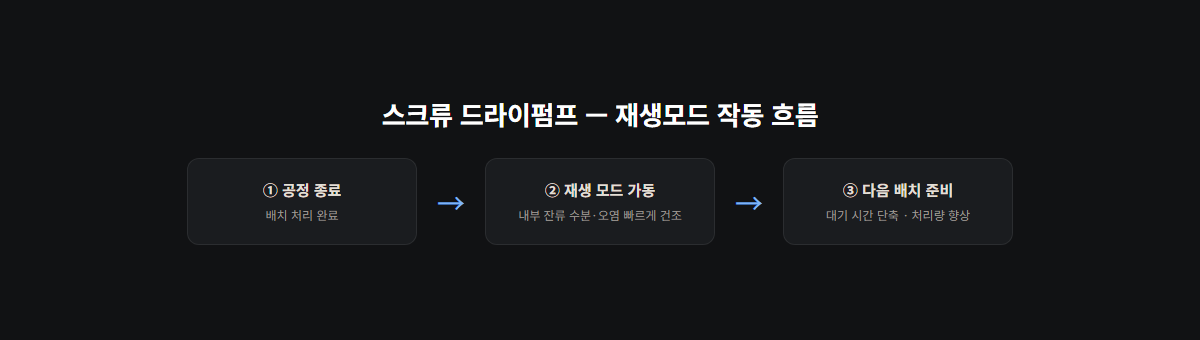
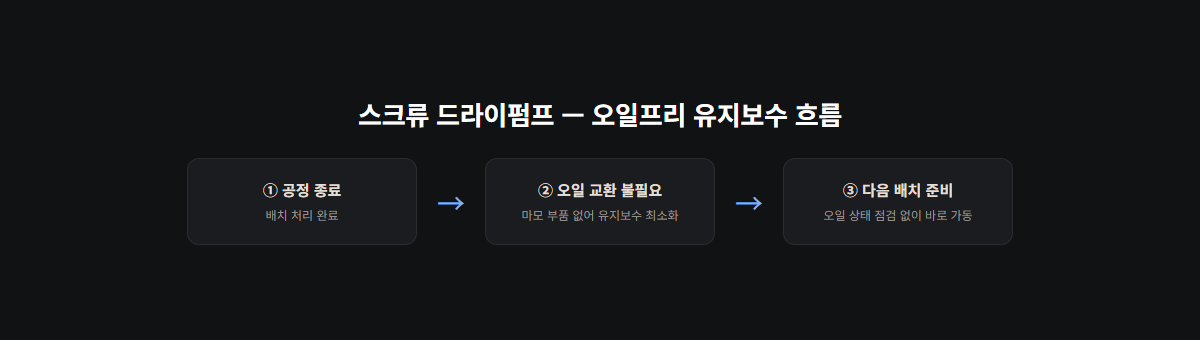
fix: 의료용 진공펌프 블로그 GC 용어 통일 및 스크류펌프 재생모드 오류 삭제
"GC·GC-MS" 중복 표현을 "GC(질량분석장비)"로 통일(사용자 지정 용어).
출처 없이 작성된 "스크류 드라이펌프 재생(regeneration) 모드" 주장을
삭제 — 사용자가 Edwards 스크류 드라이펌프에 그런 기능이 없다고 지적.
진공기술에서 재생은 크라이오펌프 흡착가스 방출 절차를 가리키는
용어로, 스크류 드라이펌프와 혼동된 것으로 추정. 관련 이미지(사진4)도
"오일프리 유지보수 흐름"으로 재생성. id=70으로 재업로드.

diff --git a/블로그/output/기술블로그/2026-07/0710-의료용진공펌프/research.md b/블로그/output/기술블로그/2026-07/0710-의료용진공펌프/research.md
@@ -2,13 +2,13 @@
 
 ## 핵심 사실
 
-1. **분석 장비(GC·GC-MS·전자현미경)는 소형 오일로터리가 표준**: E2M0.7(배기속도 0.75 m³/h, 도달진공도 3.0E-03 mbar)·E2M1.5(1.6 m³/h, 1.0E-03 mbar)는 질량분석기·전자현미경·연구실·터보펌프 백킹용으로 설계된 초소형 오일로터리베인 펌프이며, NW10 입구로 장비 내부에 붙박이로 장착되는 경우가 많다. (✅ product_master_table.csv)
+1. **분석 장비(GC(질량분석장비)·전자현미경)는 소형 오일로터리가 표준**: E2M0.7(배기속도 0.75 m³/h, 도달진공도 3.0E-03 mbar)·E2M1.5(1.6 m³/h, 1.0E-03 mbar)는 질량분석기·전자현미경·연구실·터보펌프 백킹용으로 설계된 초소형 오일로터리베인 펌프이며, NW10 입구로 장비 내부에 붙박이로 장착되는 경우가 많다. (✅ product_master_table.csv)
 2. **오일 미스트 필터로 역류 관리 가능**: EMF3 미스트 필터는 RV3~RV5, E2M0.7~1.5 배기 라인에 장착해 오일 포집이 가능하다(NW10, 정격유량 3 m³/h). 완전 전환 없이도 오일 미스트 배출을 줄이는 보완책이다. (✅ product_master_table.csv)
 3. **오일프리 대안도 존재**: nXDS6i(드라이 스크롤, 6.2 m³/h, 2.0E-02 mbar)는 E2M0.7·E2M1.5와 동일하게 질량분석기·전자현미경·연구실·터보펌프 백킹·동결건조에 쓰이는 오일프리 모델이다. 다만 입구가 NW25로 E2M 시리즈(NW10)보다 커서, 장비 제조사가 애초에 NW10 규격으로 설계한 시스템은 펌프만 단순 교체가 어렵고 배관·설치 공간 재설계가 필요할 수 있다. (✅ product_master_table.csv)
-4. **오일 역류가 실제로 문제 되는 곳은 공정 장비**: 동결건조기·멸균 챔버·충전 라인처럼 제품(백신·주사제 등)이 배기 라인과 같은 공간을 공유하거나 직접 접촉 가능성이 있는 설비에서는 오일 역류가 제품 오염으로 이어질 수 있다. FDA cGMP 등 의약품 제조 규제 환경에서는 공정 가스에 윤활유가 닿지 않아야 한다는 요건이 있다. GC·GC-MS 같은 분석 장비는 시료가 장비 내부에서 밀폐 처리되고 진공 라인이 제품(시판 의약품)과 직접 접촉하지 않는 구조라 같은 논리를 그대로 적용하기 어렵다. (✅ Vacuubrand, Brandtech 진공펌프 기술자료 — 공정 장비 한정)
+4. **오일 역류가 실제로 문제 되는 곳은 공정 장비**: 동결건조기·멸균 챔버·충전 라인처럼 제품(백신·주사제 등)이 배기 라인과 같은 공간을 공유하거나 직접 접촉 가능성이 있는 설비에서는 오일 역류가 제품 오염으로 이어질 수 있다. FDA cGMP 등 의약품 제조 규제 환경에서는 공정 가스에 윤활유가 닿지 않아야 한다는 요건이 있다. GC(질량분석장비) 같은 분석 장비는 시료가 장비 내부에서 밀폐 처리되고 진공 라인이 제품(시판 의약품)과 직접 접촉하지 않는 구조라 같은 논리를 그대로 적용하기 어렵다. (✅ Vacuubrand, Brandtech 진공펌프 기술자료 — 공정 장비 한정)
 5. **동결건조(lyophilization) 진공 요구**: 정밀 진공범위 1~10⁻³ mbar가 필요하며, 1차 건조 단계에서 시료가 녹지 않도록 목표 압력까지 빠르게 낮추는 높은 배기속도가 필요하다. 물의 삼중점은 0°C·약 6 mbar이며, 이보다 낮은 조건에서 승화(sublimation)가 가능해진다.
 6. **동결건조 구성**: 건조 챔버, 응축기(보통 -55°C~-85°C), 진공펌프로 구성된다.
-7. **스크류 펌프의 장점**: 100% 오일프리로 마모 부품이 없고, 오일 교환·마모부품 교체가 불필요하다. 재생(regeneration) 모드가 내장되어 공정 종료 후 빠르게 건조시켜 처리량을 높일 수 있다.
+7. **스크류 펌프의 장점**: 100% 오일프리로 마모 부품이 없고, 오일 교환·마모부품 교체가 불필요하다. 오일 상태 점검·교환 없이 배치 종료 직후 바로 다음 배치를 가동할 수 있어 유지보수로 인한 대기시간이 줄어든다. (⚠ 2026-07-17: 원래 "재생(regeneration) 모드 내장" 표현이 있었으나 출처 없이 작성된 오류로 확인돼 삭제 — 사용자가 Edwards 스크류 드라이펌프에 그런 기능이 없다고 지적. product_master_table.csv에도 재생/regen 관련 스펙 없음. 진공기술에서 "재생"은 크라이오펌프의 흡착가스 방출 절차를 가리키는 용어이며 스크류 드라이펌프와는 무관한 것으로 추정)
 
 ## 현장 사용자 의견 반영 (2026-07-17)
 
@@ -17,7 +17,7 @@
 ## 기존 글과의 차별점
 
 - `동결건조-식품등급오일-20260704` 글: 식품·제약 동결건조 공정에서 "오일 종류(미네랄오일 vs 식품등급오일)" 선택 기준을 다룸.
-- 이번 글: 의료·생명공학 산업에서 "분석 장비(GC·GC-MS 등)는 오일로터리 유지가 합리적, 공정 장비(동결건조·충전·멸균)는 무오일 전환이 유효"라는 장비 유형별 판단 기준을 다룸.
+- 이번 글: 의료·생명공학 산업에서 "분석 장비(GC(질량분석장비) 등)는 오일로터리 유지가 합리적, 공정 장비(동결건조·충전·멸균)는 무오일 전환이 유효"라는 장비 유형별 판단 기준을 다룸.
 
 ## 산업 연결
 

diff --git a/블로그/output/기술블로그/2026-07/0710-의료용진공펌프/naver.md b/블로그/output/기술블로그/2026-07/0710-의료용진공펌프/naver.md
@@ -2,15 +2,15 @@
 
 # 의료·바이오 GC 장비, 오일로터리펌프 계속 써도 괜찮을까요
 
-GC(가스크로마토그래피)·GC-MS 문의를 받다 보면 "오일식 펌프인데 무오일로 바꿔야 하나요"라는 질문을 자주 받습니다. 결론부터 말씀드리면, GC 계열 분석 장비는 대부분 그대로 유지하는 게 맞습니다. 반면 동결건조기·멸균 챔버 같은 공정 장비는 이야기가 다릅니다. 오늘은 장비 종류에 따라 왜 판단 기준이 달라지는지 정리합니다.
+GC(가스크로마토그래피)·GC(질량분석장비) 문의를 받다 보면 "오일식 펌프인데 무오일로 바꿔야 하나요"라는 질문을 자주 받습니다. 결론부터 말씀드리면, GC 계열 분석 장비는 대부분 그대로 유지하는 게 맞습니다. 반면 동결건조기·멸균 챔버 같은 공정 장비는 이야기가 다릅니다. 오늘은 장비 종류에 따라 왜 판단 기준이 달라지는지 정리합니다.
 
 [IMAGE:의료·생명공학 진공 시스템 무오일 드라이펌프 선택 기준]
 
 ## GC 장비는 왜 오일로터리가 기본일까요?
 
-GC·GC-MS·전자현미경 같은 분석 장비에는 E2M0.7(배기속도 0.75 m³/h, 도달진공도 3.0E-03 mbar)·E2M1.5(1.6 m³/h, 1.0E-03 mbar) 같은 초소형 오일로터리베인 펌프가 표준으로 달려 있습니다. NW10 규격의 작은 입구로 장비 내부 공간에 딱 맞춰 설계돼 있고, 터보펌프 백킹용으로도 널리 쓰입니다. 제조사가 처음부터 이 펌프 크기·성능에 맞춰 배관과 설치 공간을 설계했기 때문에, 다른 펌프로 단순 교체하기가 현실적으로 쉽지 않습니다.
+GC(질량분석장비)·전자현미경 같은 분석 장비에는 E2M0.7(배기속도 0.75 m³/h, 도달진공도 3.0E-03 mbar)·E2M1.5(1.6 m³/h, 1.0E-03 mbar) 같은 초소형 오일로터리베인 펌프가 표준으로 달려 있습니다. NW10 규격의 작은 입구로 장비 내부 공간에 딱 맞춰 설계돼 있고, 터보펌프 백킹용으로도 널리 쓰입니다. 제조사가 처음부터 이 펌프 크기·성능에 맞춰 배관과 설치 공간을 설계했기 때문에, 다른 펌프로 단순 교체하기가 현실적으로 쉽지 않습니다.
 
-[IMAGE:GC·GC-MS 배기 라인의 오일로터리펌프]
+[IMAGE:GC(질량분석장비) 배기 라인의 오일로터리펌프]
 
 ## 그럼 오일 역류는 신경 안 써도 되나요?
 
@@ -32,9 +32,9 @@ GC·GC-MS·전자현미경 같은 분석 장비에는 E2M0.7(배기속도 0.75 m
 
 ## 스크류 방식이 공정 장비에서 자주 채택되는 이유
 
-동결건조 같은 공정 장비에서는 스크류 방식 드라이펌프가 자주 쓰입니다. 100% 오일프리라 마모 부품이 없고, 오일 교환이나 부품 교체 부담도 적습니다. 재생(regeneration) 모드가 내장돼 있어 공정 종료 후 빠르게 건조시켜 다음 배치 처리량을 높일 수 있습니다. 반복 배치를 많이 돌리는 라인일수록 이 이점이 크게 체감됩니다.
+동결건조 같은 공정 장비에서는 스크류 방식 드라이펌프가 자주 쓰입니다. 100% 오일프리라 마모 부품이 없고, 오일 교환이나 부품 교체 부담도 적습니다. 오일 상태를 점검하거나 교환할 필요가 없어서 배치 종료 직후 바로 다음 배치를 가동할 수 있고, 유지보수로 인한 대기시간도 줄어듭니다. 반복 배치를 많이 돌리는 라인일수록 이 이점이 크게 체감됩니다.
 
-[IMAGE:스크류 드라이펌프 재생모드 작동 흐름]
+[IMAGE:스크류 드라이펌프 오일프리 유지보수 흐름]
 
 ## 위생·세척 기준도 함께 봐야 하나요?
 
@@ -44,7 +44,7 @@ GC·GC-MS·전자현미경 같은 분석 장비에는 E2M0.7(배기속도 0.75 m
 
 정리하면 이렇습니다.
 
-- 지금 쓰시는 장비가 GC·GC-MS·전자현미경 같은 분석 장비라면, 오일로터리 유지가 기본입니다. 냄새·미스트가 신경 쓰이면 EMF3 필터부터 점검하세요.
+- 지금 쓰시는 장비가 GC(질량분석장비)·전자현미경 같은 분석 장비라면, 오일로터리 유지가 기본입니다. 냄새·미스트가 신경 쓰이면 EMF3 필터부터 점검하세요.
 - 동결건조기·멸균 챔버·충전 라인처럼 제품이 배기 라인과 닿을 수 있는 공정 장비라면, 무오일 전환을 우선순위로 두시는 게 맞습니다.
 - 같은 실험실에 두 장비가 섞여 있다면, 공정 장비부터 먼저 무오일로 바꾸고 분석 장비는 필터 관리로 유지하는 절충안이 현실적입니다.
 
